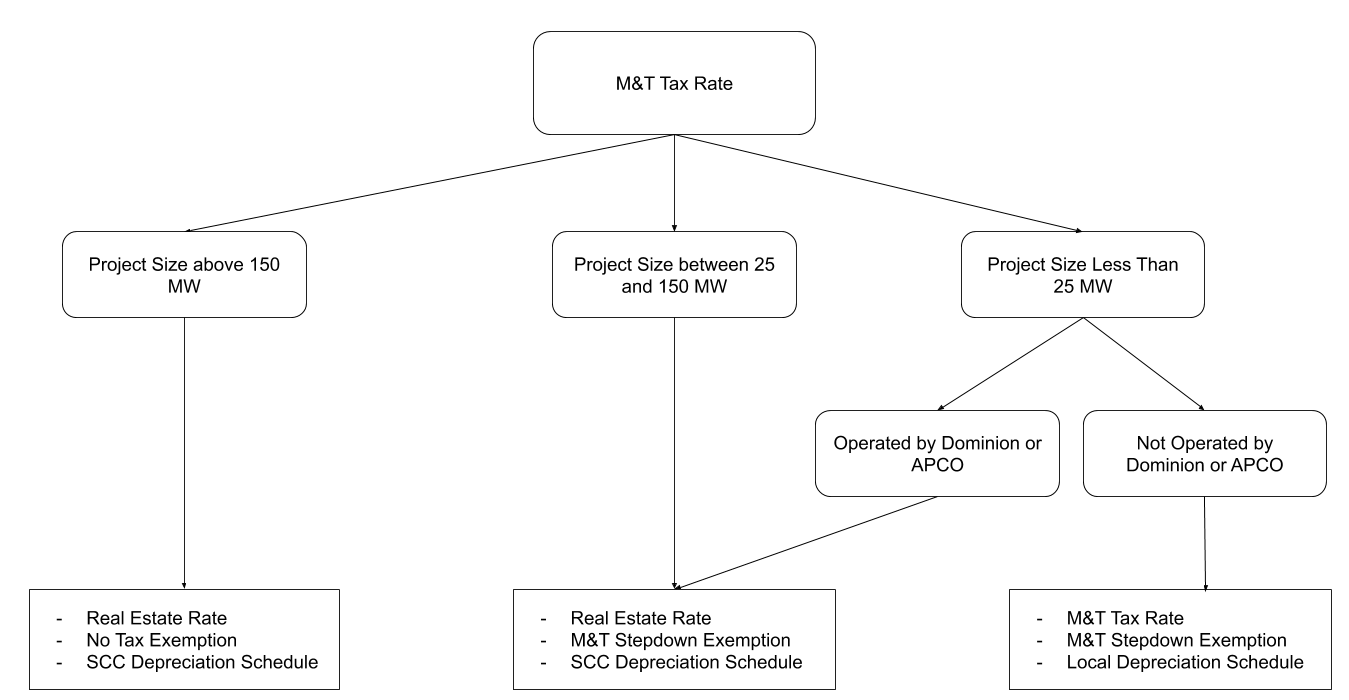
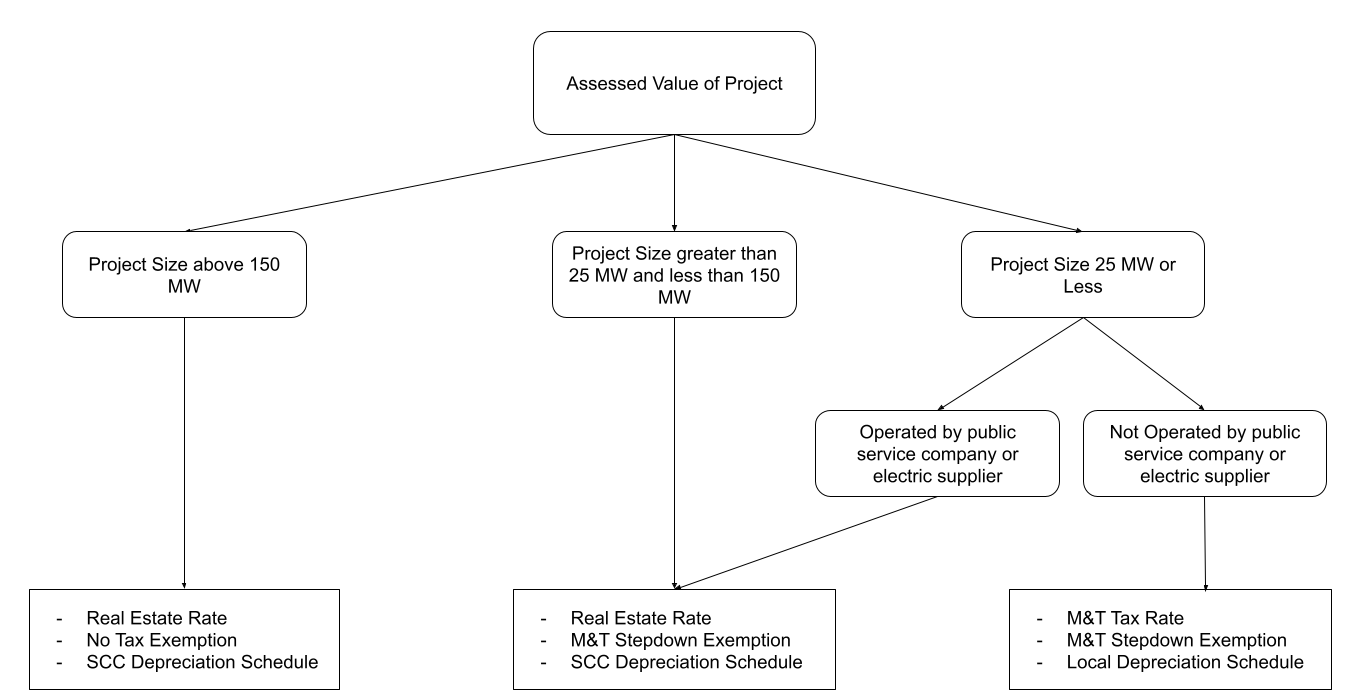
home page changes

diff --git a/models/templates/index.html b/models/templates/index.html
@@ -45,23 +45,23 @@
         <p>This tool will permit adjustment of project specifications as well as the ability to consider new
             investments
             in multiple years to allow examination of the revenue implications of alternative scenarios.</p>
+        
+        <br>    
         <div id="important-comments-and-cautions" class="section level3">
-            <h3><strong>Important comments</strong></h3>
+            <h2><strong>Login Instructions</strong></h2>
             <!-- User Profile Usage-->
             <p>To create a new profile select the "Create New Profile" Button in the top right. This will direct you to a page to enter a username, email and password. Once the account has been
                 created, you will be asked to select a locality to base your initial profile parameters off of. This can not be changed for your profile. In order to create new projects associated with
                 another locality's parameters create a new profile.
             </p>
             <p>If you have already created an account select "Login" above.</p>
-            <!-- <p>After choosing your locality, you will be asked to log in. The username should automatically populate, taking the form "Locality_Name". The username for the locality
-                King and Queen is "King_And_Queen" for example. The password is "solarTax" for all localities.
-            </p> -->
-
-
         </div>
+
         <br>
+        <br>
+
         <div id="the-decision-a-choice-between-two-revenue-model-options" class="section level2">
-            <h2>The Decision: A Choice Between Two Revenue Model Options</h2>
+            <h2><strong>The Decision: A Choice Between Two Revenue Model Options</strong></h2>
             <br>
             <div id="the-machinery-tools-tax-model" class="section level3">
                 <h3>The Machinery &amp; Tools/Real Estate Tax Model</h3>
@@ -86,9 +86,14 @@
                     <li>Size of the solar project in MW</li>
                     <li>The local M&amp;T tax rate and real estate rate, which may vary by locality.</li>
                 </ul>
+                <br>
                 <p>
-                    The tax rate, depreciation schedule, and exemption rate applied to the M&T tax model for a project can vary
-                    based on the size of the solar project and who is operating the project. Based on these, there are three possible outcomes that may arise.
+                    For the M&T/Real Estate tax model, the tax rate, depreciation schedule, and exemption rate applied to projects can vary based on the 
+                    size of the solar project and who is operating the project. There are three possible ways the M&T/Real Estate tax model can be applied to
+                    a project based on these parameters.
+
+                    <!-- The tax rate, depreciation schedule, and exemption rate applied to the M&T/Real Estate tax model for a project can vary
+                    based on the size of the solar project and who is operating the project. Based on these, there are three possible outcomes that may arise. -->
                 </p>
                 <ul>
                     <li>
@@ -103,13 +108,14 @@
                         All projects 150 MW and greater will use the real estate tax rate and the SCC depreciation schedule. There is no mandatory tax exemption applied on these projects.
                     </li>
                 </ul>
+                <br>
                 <p>
                     The 25 MW limit for projects comes from Virginia's definition of an electric supplier as defined in <a href="https://law.lis.virginia.gov/vacode/title58.1/chapter26/section58.1-2600/">Virginia Code 58.1-2600</a> and 
                     the local taxation of electric suppliers defined in <a href="https://law.lis.virginia.gov/vacode/title58.1/chapter26/section58.1-2606/">Virginia Code 58.1-2606 (Paragraph C)</a>. These two pieces of legislation state any 
                     electric supplier can not be taxed at a higher rate than the real property rate, and that a electric supplier is any person operating a facility that generates more than 25 MW of energy.
                 </p>
                 <p>
-                    A breakdown of these projects and their implications can be viewed in the image below.
+                    A breakdown of these categories of projects and their implications can be viewed in the image below.
                 </p>
                 <p>In addition to these direct factors, the use of the M&amp;T tax may cause an additional indirect
                     effect
@@ -130,6 +136,9 @@
                     funding from the state.</p>
                     <img src="{% static "models/Flowchart.png" %}" alt="M&T Flowchart" class="mt-flowchart">
             </div>
+
+            <br>
+
             <div id="the-revenue-share-model" class="section level3">
                 <h3>The Revenue Share Model</h3>
                 <p>The Revenue Share is an alternative method for localities to extract value from solar projects
@@ -150,19 +159,21 @@
                     the revenue share.</p>
             </div>
         </div>
+
         <div id="procedures-for-computing-cash-flows-under-the-two-models" class="section level1">
             <h1>Procedures for computing cash flows under the two models</h1>
             <p>The tool will prompt the user for seven pieces of information:</p>
             <ul>
 
                 <li>The initial year the solar project will operate in</li>
-                <li>The initial <!-- total capitalized investment -->investment into the solar project</li>
+                <li>The total capitalized investment into the solar project</li>
                 <li>The size of the project in megawatts</li>
                 <li>The total acreage of the project</li>
                 <li>The total acreage of the project that is "inside the fence"</li>
                 <li>The value of the land, both baseline value, and the value of land "inside the fence".</li>
                 <li>Whether the project is operated by an electric supplier, electric company (Dominion, APCo, Old Dominion Power) or an electric cooperative</li>
             </ul>
+            <br>
             <p>In addition to these variables for each analysis, each user is tied to a locality with locality specific 
                 parameters including,
             </p>
@@ -175,7 +186,8 @@
                 <li>SCC's depreciation schedule</li>
                 <li>The discount rate to be applied to all projects</li>
             </ul>
-            <p>These variable can be changed by a user to make their analyses more accurate</p>
+            <br>
+            <p>These variables can be changed by a user to make their analyses more accurate.</p>
             <p>Based on these data, the tool will calculate the expected tax revenue for a locality for each of the
                 two
                 tax
@@ -210,6 +222,7 @@
                     qualifying megawatts built in year <span class="math inline">\(t\)</span>.</p>
             </div>
         </div>
+
         <div class="section level3" id="composite-index">
             <h2>Composite Index</h2>
             <p>Both the M&T tax and Revenue Share models will increase a locality's Composite Index value. 
@@ -233,7 +246,9 @@
                 <li>Average Daily Student Membership (ADM)</li>
                 <li>Required Local Matching</li>
             </ul>
+            <br>
         </div>
+
         <div id="converting-future-cash-flows-to-net-present-value" class="section level1">
             <h1>Converting future cash flows to Net Present Value</h1>
             <p>Under either taxation model, a stream of future revenue flows can be converted to present-value
@@ -263,6 +278,7 @@
                 alternative
                 discount rates, allowing for the performance of a sensitivity analysis.</p>
         </div>
+
         <div id="auxiliary-assumptions" class="section level1">
             <h1>Auxiliary assumptions</h1>
             <ul>
@@ -281,6 +297,9 @@
                 </li>
             </ul>
         </div>
+
+        <br>
+
         <div id="uncertainties-and-risks" class="section level1">
             <h1>Uncertainties and risks</h1>
             <ul>
@@ -300,6 +319,8 @@
             </ul>
         </div>
 
+        <br>
+
         <!-- Acknowledgements -->
         <div>
             <h1>Acknowledgements</h1>
@@ -317,27 +338,13 @@
         </div>
 
         <br>
+        <br>
+
         <!-- New Disclaimer -->
         <div>
             <p>Disclaimer</p>
             <p><em>This is not a forecasting tool. This is a tool is to be used as a consulting tool for localities. The suggestions from models does not constitute legal advice.</em></p>
         </div>
-                    <!-- Move to bottom smaller print, italics-->
-                    <!-- <p><strong>THIS TOOL COMES WITH ABSOLUTELY NO WARRANTY.</strong></p>
-                    <p><strong>THIS IS NOT A FORECASTING TOOL.</strong></p> -->
-                    <!-- Not a forecasting tool, this is a tool meant for localities to consult with, this does not constitute legal advice-->
-        <!-- <div class="locality-dropup">
-            <div class="dropup">
-                <button class="btn btn-primary btn-lg dropdown-toggle" type="button" id="dropdownMenuButtonBottom" data-toggle="dropdown" aria-haspopup="true" aria-expanded="false">
-                    Choose Your Locality
-                </button>
-                <div class="dropdown-menu" aria-labelledby="dropdownMenuButtonBottom">
-                    <a class="dropdown-item" href="form/">Albemarle</a>
-                    <a class="dropdown-item" href="form/">Alexandria</a>
-                    <a class="dropdown-item" href="form/">Arlington</a>
-                </div>
-            </div>   
-        </div> -->
     </div>
 </div>
 {% endblock content%}

diff --git a/models/templates/dash.html b/models/templates/dash.html
@@ -48,7 +48,7 @@
                                 </tr>
                             {% elif field == 'initial_investment' %}
                                 <tr>
-                                    <td>Initial Investment</td>
+                                    <td>Total Capitalized Investment</td>
                                     <td class="value"><span class="dollar_value">{{value}}</span></td>
                                 </tr>
                             {% elif field == 'initial_year' %}
@@ -114,6 +114,7 @@
                     </tr> -->
                 </tbody>
             </table>
+            <p class="parameter-note">Note: The tax rate highlighted in green is used for M&T/Real Estate tax calculations.</p>
 
             <!-- <div class="back-button">
                 <form action="form">
@@ -140,7 +141,7 @@
                         </tr>
                         <tr>
                             <td>
-                                <strong class="mt-revenue-title">M&T Tax</strong>
+                                <strong class="mt-revenue-title">M&T/Real Estate Tax</strong>
                             </td>
                             <td>
                                 <span class="dollar_value">{% get_totals calculations.tot_mt %}</span>
@@ -181,9 +182,9 @@
             <thead>
                 <tr class="header">
                     <th scope="col">Year</th>
-                    <th scope="col">M&T Tax Nominal $</th>
+                    <th scope="col">M&T/Real Estate Tax Nominal $</th>
                     <th scope="col">Revenue Share Nominal $</th>
-                    <th scope="col">M&T Tax in 2020 $ Discounted at {% get_discount_rate simulation %}%</th>
+                    <th scope="col">M&T/Real Estate Tax in 2020 $ Discounted at {% get_discount_rate simulation %}%</th>
                     <th class="last-data" scope="col">Revenue Share in 2020 $ Discounted at {% get_discount_rate simulation %}%</th>
                 </tr>
             </thead>

diff --git a/models/templates/locality-home.html b/models/templates/locality-home.html
@@ -25,7 +25,7 @@
                     </tr>
                     <tr>
                         <td>
-                            <h4>Total M&T Revenue</h4>
+                            <h4>Total M&T/Real Estate Tax Revenue</h4>
                         </td>
                         <td>
                             <h4><span class="dollar_value">{{total_mt_revenue}}</span></h4>
@@ -75,7 +75,7 @@
                                 </tr>
                                 <tr class="card-table-row odd">
                                     <td>
-                                        <strong>Initial Investment</strong>
+                                        <strong>Total Capitalized Investment</strong>
                                     </td>
                                     <td class="card-table-value">
                                         <span class="dollar_value">{{simulation.initial_investment}}</span>
@@ -107,7 +107,7 @@
                                 </tr>
                                 <tr class="card-table-row">
                                     <td>
-                                        <strong>M&T Revenue</strong>
+                                        <strong>M&T/Real Estate Tax Revenue</strong>
                                     </td>
                                     <td class="card-table-value">
                                         <span class="dollar_value">{% get_totals simulation.calculations.tot_mt %}</span>

diff --git a/models/static/models/style.css b/models/static/models/style.css
@@ -8,7 +8,7 @@ h2, h3, h4{
 }
 li{
     /* line-height: .8rem; */
-    margin: -10px;
+    margin: -20px;
 }
 .locality_name{
     margin: 3px;
@@ -28,7 +28,9 @@ li{
     text-decoration: none;
     color: black;
 }
-
+.parameter-note{
+    text-align: center;
+}
 .not-log-button:hover{
     text-decoration: none;
     color: rgb(197, 193, 193);;

diff --git a/models/forms.py b/models/forms.py
@@ -34,7 +34,7 @@ class SimulationForm(forms.ModelForm):
         fields = ('user', 'name','initial_year', 'project_length', 'initial_investment', 'project_size', 'total_acreage', 'inside_fence_acreage', 'baseline_land_value', 'inside_fence_land_value', 'outside_fence_land_value', 'dominion_or_apco')
         labels = {
             'name': ugettext_lazy('Project Name'),
-            'initial_investment': ugettext_lazy('Initial Investment ($)'),
+            'initial_investment': ugettext_lazy('Total Capitalized Investment ($)'),
             'initial_year': ugettext_lazy('Initial Year'),
             'project_length': ugettext_lazy('Project Length (Years)'),
             'project_size': ugettext_lazy('Project Size (MW)'),

diff --git a/models/templatetags/custom_tags.py b/models/templatetags/custom_tags.py
@@ -31,13 +31,15 @@ def get_rs_rate(sim):
 @register.simple_tag
 def get_mt_rate(sim):
     locality = UserProfile.objects.get(id = sim[0]["fields"]["user"])
-    return locality.mt_tax_rate
+    return ("{:.2f}".format(locality.mt_tax_rate))
+    #return locality.mt_tax_rate
 
 @register.simple_tag
 def get_real_property_rate(sim):
     locality = UserProfile.objects.get(id = sim[0]["fields"]["user"])
     print(locality.real_property_rate)
-    return locality.real_property_rate
+    return ("{:.2f}".format(locality.real_property_rate))
+    #return locality.real_property_rate
 
 @register.simple_tag
 def get_project_size(sim):
